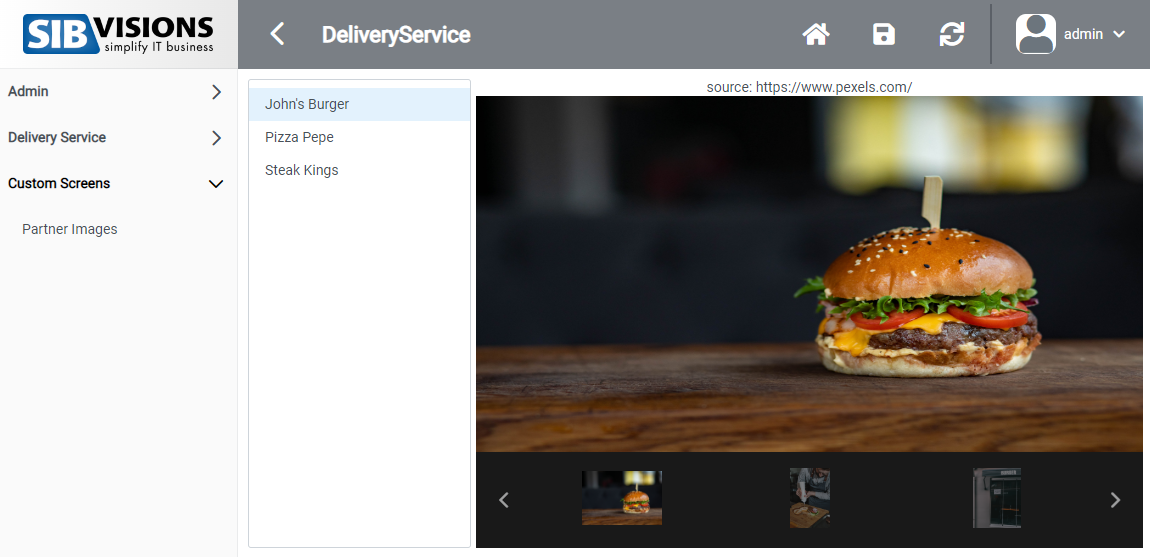
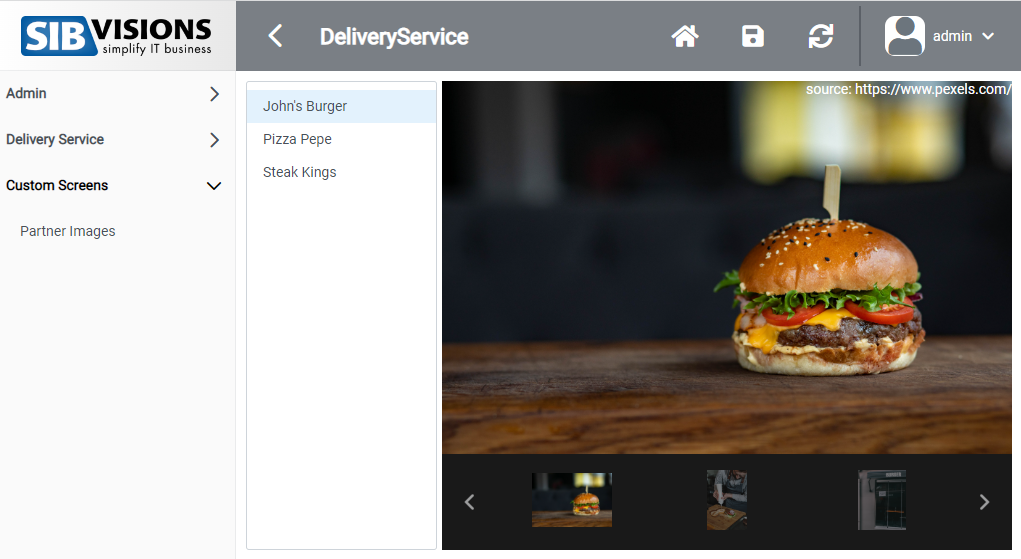
changed source label of custom-screen

diff --git a/src/CustomRestaurantScreen.tsx b/src/CustomRestaurantScreen.tsx
@@ -83,8 +83,8 @@ const CustomRestaurantScreen:FC<{}> = () => {
                 options={restaurants} 
                 onChange={(e) => setSelectedRestaurant(e.value)} 
                 optionLabel="label" />
-            <div style={{ display: "flex", flexDirection: "column", alignItems: "center" }}>
-                <span>source: https://www.pexels.com/ </span>
+            <div style={{ display: "flex", flexDirection: "column", alignItems: "center", position: "relative" }}>
+                <span style={{ position: "absolute", right: "0px", color: "white", zIndex: "1" }} >source: https://www.pexels.com/ </span>
                 <Galleria value={selectedImages} numVisible={3} item={itemTemplate} thumbnail={thumbnailTemplate} style={{ maxWidth: "1200px", flex: "1" }} /> 
             </div>
             
